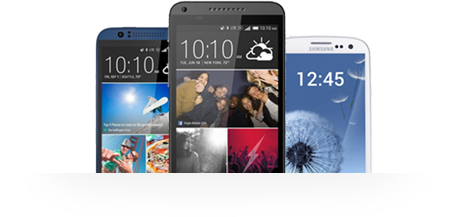
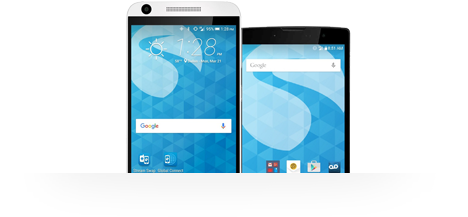
Add new image for CDMA devices

diff --git a/Website/frontend/assets/css/_sass/partials/_marketing-site-redesign-overrides.scss b/Website/frontend/assets/css/_sass/partials/_marketing-site-redesign-overrides.scss
@@ -1038,7 +1038,7 @@ article.pay {
     }
 
     .bring-device {
-        background: image-url('marketing/home-mobile-shopPhone.png') top no-repeat;
+        background: image-url('marketing/redesign/Modules/BringPhones.jpg') top left no-repeat;
 
         @include breakpoint(small) {
             margin-top: 20px;
